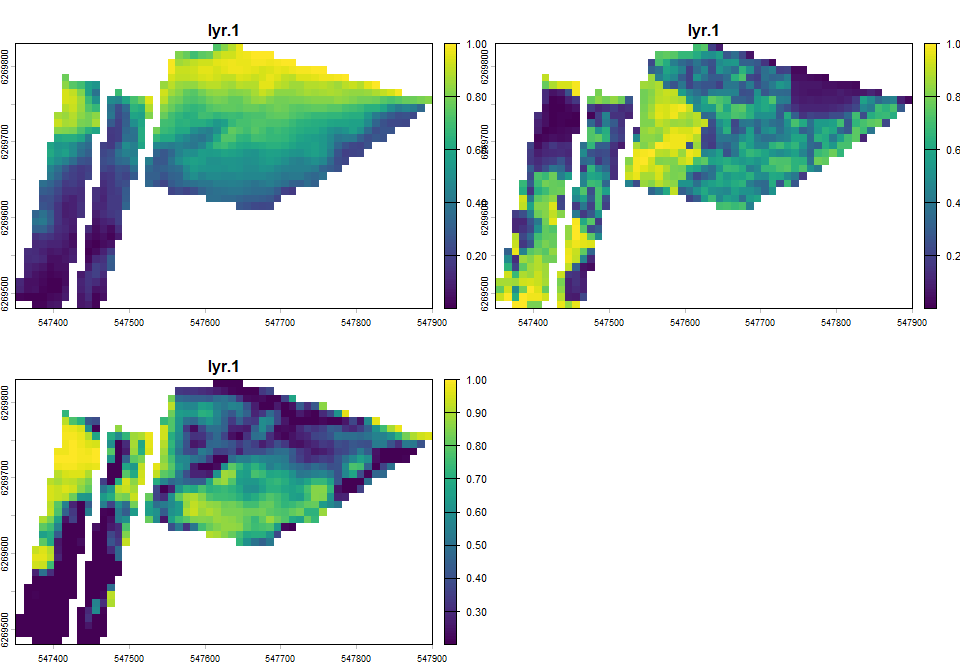
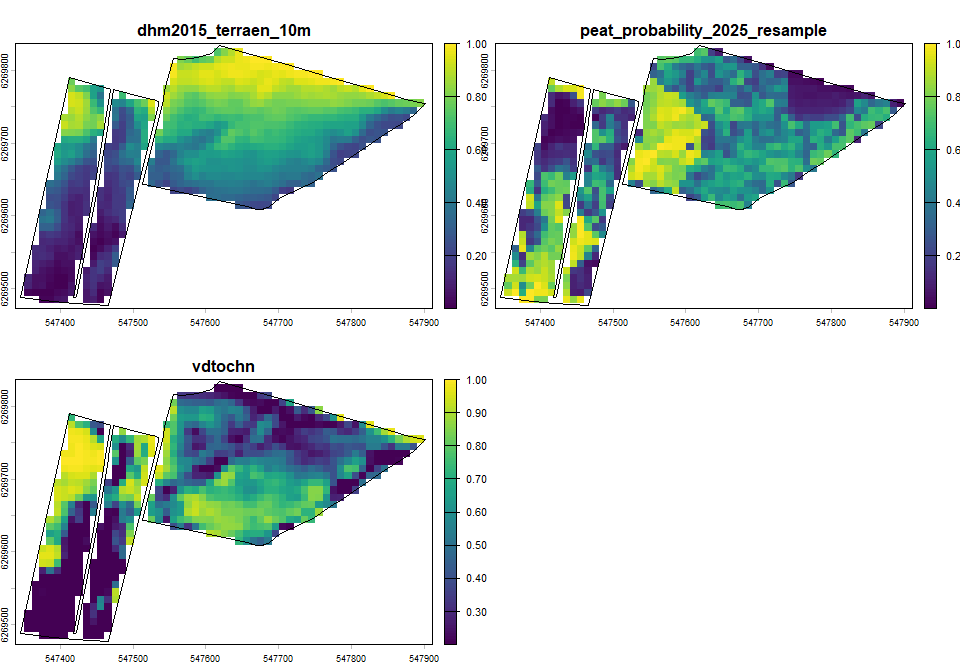
Improve Study Area and Initial Raster Processing Visualization

diff --git a/ranked_samples_workflow.md b/ranked_samples_workflow.md
@@ -93,14 +93,12 @@ plot(study_areas[study_area_idx, ], main = paste("Study area", study_area_idx))
 
 <img src="ranked_samples_workflow_files/figure-html/study-area-1.png" alt="" width="60%" style="display: block; margin: auto;" />
 
-This selects one study area polygon for demonstration.
-
 ## 2. Load and Subset Raster Inputs
+
+The input rasters are cropped and masked to the selected study area. Raster cells are omitted if they contain NA values in any of the input layers.
 
 
 ``` r
-sampling_input <- rast(sampling_paths)
-
 sampling_input_field <- crop(
   sampling_input,
   study_areas[study_area_idx, ]
@@ -116,14 +114,24 @@ sampling_input_field <- ifel(
   NA
 )
 
-plot(sampling_input_field)
+names(sampling_input_field) <- names(sampling_input)
+
+plot(sampling_input_field,
+     extent = study_areas[study_area_idx, ],
+  fun = function() {
+    plot(study_areas[study_area_idx, ], add = TRUE)
+  },
+  buffer = TRUE
+)
 ```
 
 <img src="ranked_samples_workflow_files/figure-html/load-rasters-1.png" alt="" width="80%" style="display: block; margin: auto;" />
 
-Cropping and masking keep only pixels inside the selected field.
-
 ## 3. Percentile Transformation and Outlier Clamp
+
+The input layers are transformed to percentiles using the empirical cumulative distribution function (ECDF). The resulting values are also clamped to three standard deviations from the mean to reduce the influence of extreme values. This is mainly relevant if any of the input layers contain many duplicate values, which can lead to large jumps in the ECDF.
+
+The transformation into percentiles helps to make cluster sizes more uniform and counteracts the potential effects of extreme values.
 
 
 ``` r
@@ -146,14 +154,23 @@ sampling_input_pctile <- sampling_input_pctile |>
     upper = field_means + field_sds * 3
   )
 
-plot(sampling_input_pctile)
+names(sampling_input_pctile) <- names(sampling_input_field)
+
+plot(
+  sampling_input_pctile,
+  extent = study_areas[study_area_idx, ],
+  fun = function() {
+    plot(study_areas[study_area_idx, ], add = TRUE)
+  },
+  buffer = TRUE
+)
 ```
 
 <img src="ranked_samples_workflow_files/figure-html/pctile-and-clamp-1.png" alt="" width="80%" style="display: block; margin: auto;" />
 
-Percentiles normalize layers to a comparable scale. Clamping reduces the effect of extreme values.
-
 ## 4. Candidate Sampling Pixels
+
+The selection of sampling points is restricted to areas more than 10 m from the field boundaries. All pixels in the input are used for identifying clusters, but sampling locations are limited to the candidate pixels.
 
 
 ``` r